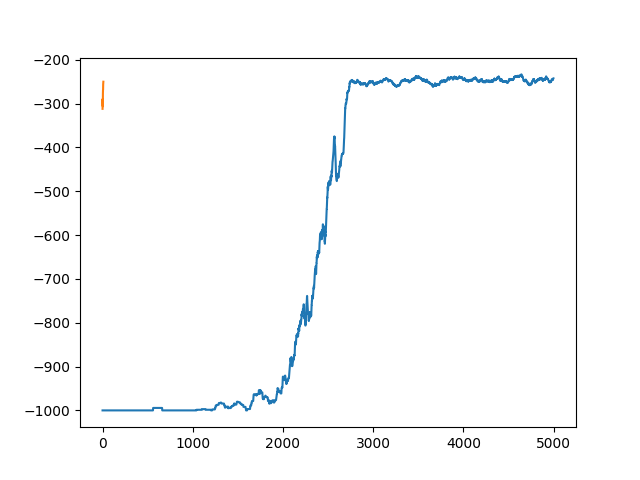
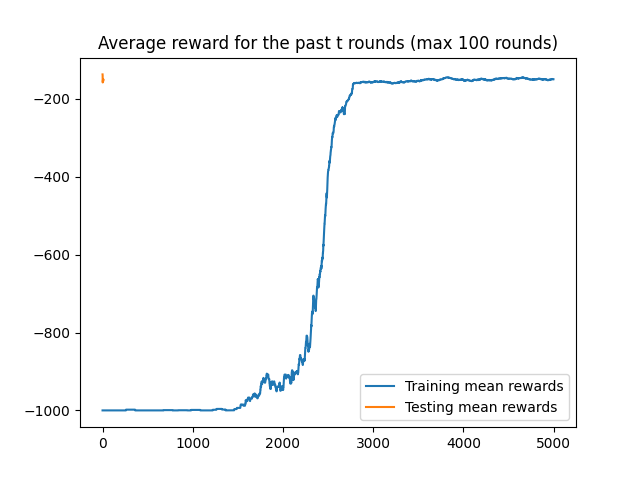
fit: 显示训练进展（epoch）

diff --git a/mountain_car_q_learning/q_learning.py b/mountain_car_q_learning/q_learning.py
@@ -74,7 +74,12 @@ def run(episodes, is_training=True, render=False): # default mode: training
         epsilon = max(epsilon - epsilon_decay_rate, 0)
         # store rewards per episode
         rewards_per_episode[i] = rewards
-        
+        # output the reward each 100 epoches
+        if i % 100 == 0 and is_training:
+            print(f"Current training epoch: {i}, having reward of {rewards_per_episode[i]}.")
+        if not is_training:
+            print(f"Current testing epoch: {i + 1}, having reward of {rewards_per_episode[i]}.")
+    
     # 6. Close the environment
     env.close()
     
@@ -84,11 +89,17 @@ def run(episodes, is_training=True, render=False): # default mode: training
         pickle.dump(q, f) # write the pickled representation of Q-table 'q' to the open file object 'f'
         f.close()
         
-    # 8. Compute and plot the average reward for the past t rounds (max 100 rounds)
+    # 8. Compute and plot the average reward for the past t rounds during training and testing (max 100 rounds)
     mean_rewards = np.zeros(episodes)
     for t in range(episodes):
         mean_rewards[t] = np.mean(rewards_per_episode[max(0, t - 100): (t + 1)])
-    plt.plot(mean_rewards)
+    if is_training:
+        label = 'Training mean rewards'
+    else:
+        label = 'Testing mean rewards'
+    plt.plot(mean_rewards, label=label)
+    plt.title("Average reward for the past t rounds (max 100 rounds)")
+    plt.legend(loc='lower right')
     path = './result'
     if not os.path.exists(path):
         os.makedirs(path, exist_ok=True)
